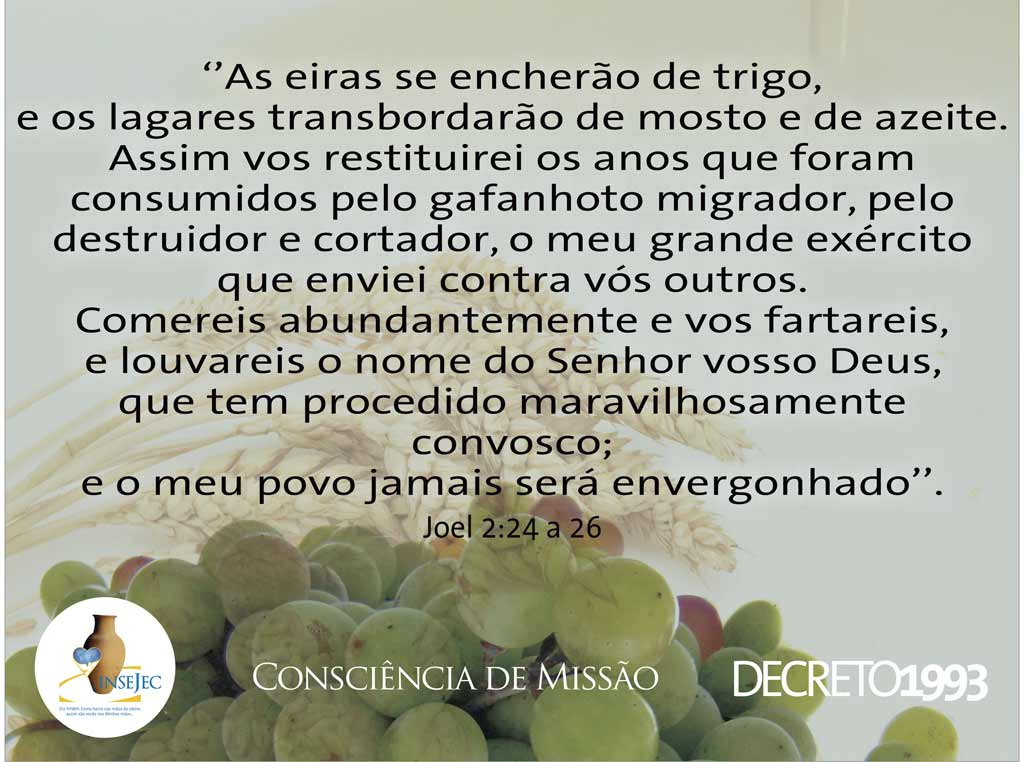
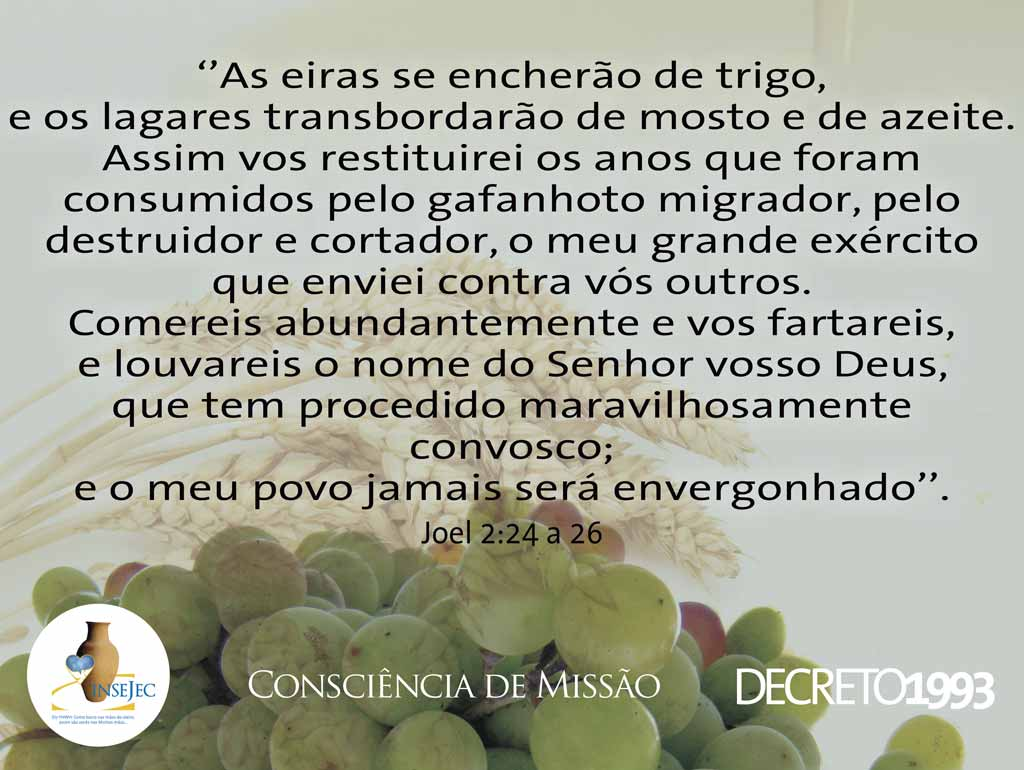
Feito página decretos, e criado galeria de imagens

diff --git a/igreja/decretos.html b/igreja/decretos.html
@@ -195,10 +195,29 @@
         <div class="gallery">
 
           <div class="gallery-item cursor"><img src="../assets/img/thumbnails/Imagem-1.jpg" class="hover-shadow" onclick="openModal();currentSlide(1)" /></div>
-          <div class="gallery-item cursor"><img src="../assets/img/thumbnails/Imagem-2.jpg" class="hover-shadow" /></div>
-          <div class="gallery-item cursor"><img src="../assets/img/thumbnails/Imagem-3.jpg" class="hover-shadow" /></div>
-          <div class="gallery-item cursor"><img src="../assets/img/thumbnails/Imagem-4.jpg" class="hover-shadow" /></div>
-          <div class="gallery-item cursor"><img src="../assets/img/thumbnails/Imagem-21.jpg" class="hover-shadow" /></div>
+          <div class="gallery-item cursor"><img src="../assets/img/thumbnails/Imagem-2.jpg" class="hover-shadow" onclick="openModal();currentSlide(2)" /></div>
+          <div class="gallery-item cursor"><img src="../assets/img/thumbnails/Imagem-3.jpg" class="hover-shadow" onclick="openModal();currentSlide(3)" /></div>
+          <div class="gallery-item cursor"><img src="../assets/img/thumbnails/Imagem-4.jpg" class="hover-shadow" onclick="openModal();currentSlide(4)" /></div>
+          <div class="gallery-item cursor"><img src="../assets/img/thumbnails/Imagem-5.jpg" class="hover-shadow" onclick="openModal();currentSlide(5)" /></div>
+          <div class="gallery-item cursor"><img src="../assets/img/thumbnails/Imagem-6.jpg" class="hover-shadow" onclick="openModal();currentSlide(6)" /></div>
+          <div class="gallery-item cursor"><img src="../assets/img/thumbnails/Imagem-7.jpg" class="hover-shadow" onclick="openModal();currentSlide(7)" /></div>
+          <div class="gallery-item cursor"><img src="../assets/img/thumbnails/Imagem-8.jpg" class="hover-shadow" onclick="openModal();currentSlide(8)" /></div>
+          <div class="gallery-item cursor"><img src="../assets/img/thumbnails/Imagem-9.jpg" class="hover-shadow" onclick="openModal();currentSlide(9)" /></div>
+          <div class="gallery-item cursor"><img src="../assets/img/thumbnails/Imagem-10.jpg" class="hover-shadow" onclick="openModal();currentSlide(10)" /></div>
+          <div class="gallery-item cursor"><img src="../assets/img/thumbnails/Imagem-11.jpg" class="hover-shadow" onclick="openModal();currentSlide(11)" /></div>
+          <div class="gallery-item cursor"><img src="../assets/img/thumbnails/Imagem-12.jpg" class="hover-shadow" onclick="openModal();currentSlide(12)" /></div>
+          <div class="gallery-item cursor"><img src="../assets/img/thumbnails/Imagem-13.jpg" class="hover-shadow" onclick="openModal();currentSlide(13)" /></div>
+          <div class="gallery-item cursor"><img src="../assets/img/thumbnails/Imagem-14.jpg" class="hover-shadow" onclick="openModal();currentSlide(14)" /></div>
+          <div class="gallery-item cursor"><img src="../assets/img/thumbnails/Imagem-15.jpg" class="hover-shadow" onclick="openModal();currentSlide(15)" /></div>
+          <div class="gallery-item cursor"><img src="../assets/img/thumbnails/Imagem-16.jpg" class="hover-shadow" onclick="openModal();currentSlide(16)" /></div>
+          <div class="gallery-item cursor"><img src="../assets/img/thumbnails/Imagem-17.jpg" class="hover-shadow" onclick="openModal();currentSlide(17)" /></div>
+          <div class="gallery-item cursor"><img src="../assets/img/thumbnails/Imagem-18.jpg" class="hover-shadow" onclick="openModal();currentSlide(18)" /></div>
+          <div class="gallery-item cursor"><img src="../assets/img/thumbnails/Imagem-19.jpg" class="hover-shadow" onclick="openModal();currentSlide(19)" /></div>
+          <div class="gallery-item cursor"><img src="../assets/img/thumbnails/Imagem-20.jpg" class="hover-shadow" onclick="openModal();currentSlide(20)" /></div>
+          <div class="gallery-item cursor"><img src="../assets/img/thumbnails/Imagem-21.jpg" class="hover-shadow" onclick="openModal();currentSlide(21)" /></div>
+          <div class="gallery-item cursor"><img src="../assets/img/thumbnails/Imagem-22.jpg" class="hover-shadow" onclick="openModal();currentSlide(22)" /></div>
+          <div class="gallery-item cursor"><img src="../assets/img/thumbnails/Imagem-23.jpg" class="hover-shadow" onclick="openModal();currentSlide(23)" /></div>
+          <div class="gallery-item cursor"><img src="../assets/img/thumbnails/Imagem-24.jpg" class="hover-shadow" onclick="openModal();currentSlide(24)" /></div>
 
 
         </div>
@@ -210,33 +229,159 @@
 
         <span class="close cursor" onclick="closeModal()">&times;</span>
 
+        <div class="baixo" onclick="closeModal()"></div>
+
         <div class="mySlides">
-          <div class="numbertext"> 1 / 25</div>
-          <img src="../assets/img/Imagem-1.jpg" style="width: 100%">
+          <div class="numbertext"> 1 / 24</div>
+          <img src="../assets/img/Imagem-1.jpg">
         </div>
 
         <div class="mySlides">
-          <div class="numbertext"> 2 / 25</div>
-          <img src="../assets/img/Imagem-2.jpg" style="width: 100%">
+          <div class="numbertext"> 2 / 24</div>
+          <img src="../assets/img/Imagem-2.jpg" >
         </div>
 
         <div class="mySlides">
-          <div class="numbertext"> 3 / 25</div>
-          <img src="../assets/img/Imagem-3.jpg" style="width: 100%">
+          <div class="numbertext"> 3 / 24</div>
+          <img src="../assets/img/Imagem-3.jpg" >
         </div>
 
         <div class="mySlides">
-          <div class="numbertext"> 4 / 25</div>
-          <img src="../assets/img/Imagem-4.jpg" style="width: 100%">
+          <div class="numbertext"> 4 / 24</div>
+          <img src="../assets/img/Imagem-4.jpg" >
         </div>
 
         <div class="mySlides">
-          <div class="numbertext"> 21 / 25</div>
-          <img src="../assets/img/Imagem-21.jpg" style="width: 100%">
+          <div class="numbertext"> 5 / 24</div>
+          <img src="../assets/img/Imagem-5.jpg" >
+        </div>
+
+        <div class="mySlides">
+          <div class="numbertext"> 6 / 24</div>
+          <img src="../assets/img/Imagem-6.jpg" >
+        </div>
+
+        <div class="mySlides">
+          <div class="numbertext"> 7 / 24</div>
+          <img src="../assets/img/Imagem-7.jpg" >
+        </div>
+
+        <div class="mySlides">
+          <div class="numbertext"> 8 / 24</div>
+          <img src="../assets/img/Imagem-8.jpg" >
+        </div>
+
+        <div class="mySlides">
+          <div class="numbertext"> 9 / 24</div>
+          <img src="../assets/img/Imagem-9.jpg" >
+        </div>
+
+        <div class="mySlides">
+          <div class="numbertext"> 10 / 24</div>
+          <img src="../assets/img/Imagem-10.jpg" >
+        </div>
+
+        <div class="mySlides">
+          <div class="numbertext"> 11 / 24</div>
+          <img src="../assets/img/Imagem-11.jpg" >
+        </div>
+
+        <div class="mySlides">
+          <div class="numbertext"> 12 / 24</div>
+          <img src="../assets/img/Imagem-12.jpg" >
+        </div>
+
+        <div class="mySlides">
+          <div class="numbertext"> 13 / 24</div>
+          <img src="../assets/img/Imagem-13.jpg" >
+        </div>
+
+        <div class="mySlides">
+          <div class="numbertext"> 14 / 24</div>
+          <img src="../assets/img/Imagem-14.jpg" >
+        </div>
+
+        <div class="mySlides">
+          <div class="numbertext"> 15 / 24</div>
+          <img src="../assets/img/Imagem-15.jpg" >
+        </div>
+
+        <div class="mySlides">
+          <div class="numbertext"> 16 / 24</div>
+          <img src="../assets/img/Imagem-16.jpg" >
+        </div>
+
+        <div class="mySlides">
+          <div class="numbertext"> 17 / 24</div>
+          <img src="../assets/img/Imagem-17.jpg" >
+        </div>
+
+        <div class="mySlides">
+          <div class="numbertext"> 18 / 24</div>
+          <img src="../assets/img/Imagem-18.jpg" >
+        </div>
+
+        <div class="mySlides">
+          <div class="numbertext"> 19 / 24</div>
+          <img src="../assets/img/Imagem-19.jpg" >
+        </div>
+
+        <div class="mySlides">
+          <div class="numbertext"> 20 / 24</div>
+          <img src="../assets/img/Imagem-20.jpg" >
+        </div>
+
+        <div class="mySlides">
+          <div class="numbertext"> 21 / 24</div>
+          <img src="../assets/img/Imagem-21.jpg" >
+        </div>
+
+        <div class="mySlides">
+          <div class="numbertext"> 22 / 24</div>
+          <img src="../assets/img/Imagem-22.jpg" >
+        </div>
+
+        <div class="mySlides">
+          <div class="numbertext"> 23 / 24</div>
+          <img src="../assets/img/Imagem-23.jpg" >
+        </div>
+
+        <div class="mySlides">
+          <div class="numbertext"> 24 / 24</div>
+          <img src="../assets/img/Imagem-24.jpg" >
         </div>
 
         <a class="prev" onclick="plusSlides(-1)">&#10094;</a>
         <a class="next" onclick="plusSlides(1)">&#10095;</a>
+
+        <div class="column">
+          <ol class="carousel-indicator">
+            <li class="demo cursor" onclick="currentSlide(1)" title="Decreto 1992"></li>
+            <li class="demo cursor" onclick="currentSlide(2)" title="Decreto 1993"></li>
+            <li class="demo cursor" onclick="currentSlide(3)" title="Decreto 1994"></li>
+            <li class="demo cursor" onclick="currentSlide(4)" title="Decreto 1995"></li>
+            <li class="demo cursor" onclick="currentSlide(5)" title="Decreto 1996"></li>
+            <li class="demo cursor" onclick="currentSlide(6)" title="Decreto 1997"></li>
+            <li class="demo cursor" onclick="currentSlide(7)" title="Decreto 1998"></li>
+            <li class="demo cursor" onclick="currentSlide(8)" title="Decreto 1999"></li>
+            <li class="demo cursor" onclick="currentSlide(9)" title="Decreto 2000"></li>
+            <li class="demo cursor" onclick="currentSlide(10)" title="Decreto 2001"></li>
+            <li class="demo cursor" onclick="currentSlide(11)" title="Decreto 2005"></li>
+            <li class="demo cursor" onclick="currentSlide(12)" title="Decreto 2007"></li>
+            <li class="demo cursor" onclick="currentSlide(13)" title="Decreto 2008"></li>
+            <li class="demo cursor" onclick="currentSlide(14)" title="Decreto 2009"></li>
+            <li class="demo cursor" onclick="currentSlide(15)" title="Decreto 2010"></li>
+            <li class="demo cursor" onclick="currentSlide(16)" title="Decreto 2011"></li>
+            <li class="demo cursor" onclick="currentSlide(17)" title="Decreto 2012"></li>
+            <li class="demo cursor" onclick="currentSlide(18)" title="Decreto 2013"></li>
+            <li class="demo cursor" onclick="currentSlide(19)" title="Decreto 2014"></li>
+            <li class="demo cursor" onclick="currentSlide(20)" title="Decreto 2015"></li>
+            <li class="demo cursor" onclick="currentSlide(21)" title="Decreto 2016"></li>
+            <li class="demo cursor" onclick="currentSlide(22)" title="Decreto 2017"></li>
+            <li class="demo cursor" onclick="currentSlide(23)" title="Decreto 2018"></li>
+            <li class="demo cursor" onclick="currentSlide(24)" title="Decreto 2019"></li>
+          </ol>
+        </div>
 
       </div>
 

diff --git a/assets/css/decretos.css b/assets/css/decretos.css
@@ -12,7 +12,7 @@
 
 body {
   background: rgba(221, 216, 217, 0.4);
-  background-image: url(/assets/img/FacesCom.jpg);
+  background-image: url(../img/FacesCom.jpg);
   background-size: 900px 1200px;
   background-attachment: fixed;
   background-blend-mode: screen;
@@ -82,16 +82,17 @@ body {
   cursor: pointer;
 }
 
-.hover-shadow{
+.hover-shadow {
   transition: 0.3s;
 }
 
 .hover-shadow:hover {
   box-shadow: 3px 5px 8px 5px rgba(0, 0, 0, 0.2), 0 6px 20px 0 rgba(0, 0, 0, 0.19);
+  opacity: 0.6;
 }
 
 /* The modal (background) */
-.modal{
+.modal {
   display: none;
   position: fixed;
   z-index: 11;
@@ -101,7 +102,7 @@ body {
   width: 100%;
   height: 100%;
   overflow: auto;
-  background-color: black;
+  background-color: rgba(0, 0, 0, 0.7);
 }
 
 /* modal content */
@@ -118,10 +119,11 @@ body {
 .close {
   color: white;
   position: absolute;
-  top: 10px;
-  right: 25px;
-  font-size: 35px;
+  top: 23px;
+  right: 45px;
+  font-size: 51px;
   font-weight: bold;
+  z-index: 10;
 }
 
 .close:hover,
@@ -133,6 +135,61 @@ body {
 
 .mySlides {
   display: none;
+  justify-content: center;
+}
+
+.mySlides img {
+  width: initial;
+  height: initial;
+  z-index: 10;
+}
+
+.demo {
+  opacity: 0.6;
+}
+
+.active,
+.demo:hover {
+  opacity: 1;
+  background-color: white;
+ border: 1px solid grey;
+}
+
+.column {
+  float: left;
+  width: 25%;
+}
+
+.carousel-indicator {
+  position: absolute;
+bottom: 10px;
+left: 50%;
+z-index: 15;
+width: 60%;
+margin-left: -30%;
+padding-left: 0;
+list-style: none;
+text-align: center;
+}
+
+.carousel-indicator li {
+  display: inline-block;
+width: 10px;
+height: 10px;
+margin: 1px;
+text-indent: -999px;
+border-radius: 10px;
+cursor: pointer;
+border: 1px solid grey;
+background-color: white;
+}
+
+.baixo {
+  width: 100%;
+  height: 100%;
+  position: absolute;
+  top: 0;
+  z-index: 9;
 }
 
 /* next & previous buttons */
@@ -146,11 +203,12 @@ body {
   margin-top: -50px;
   color: white;
   font-weight: bold;
-  font-size: 20px;
+  font-size: 30px;
   transition: 0.6s ease;
   border-radius: 0 3px 3px 0;
   user-select: none;
   -webkit-user-select: none;
+  z-index: 10;
 }
 
 /* position the "next button" to the right  */
@@ -162,7 +220,8 @@ body {
 /* on hover, add a black background color with a little bit see-through  */
 .prev:hover,
 .next:hover {
-  background-color: rgba(0, 0, 0, 0.8);
+  background-color: white;
+  color: black;
 }
 
 /* number text  */
@@ -173,10 +232,20 @@ body {
   position: absolute;
   top: 0;
 }
- 
+
 @media (max-width: 700px) {
   .gallery {
     grid-template: "1fr";
+  }
+
+  .modal {
+    z-index: 12;
+  }
+
+  .prev,
+  .next {
+    top: 240px;
+    margin-top: initial;
   }
 }
 

diff --git a/assets/css/main.css b/assets/css/main.css
@@ -19,7 +19,7 @@ html, body, div, span, object, iframe,h1, h2, h3, h4, h5, h6, p, blockquote, pre
 
 body {
   background: rgba(221, 216, 217, 0.90);
-  background-image: url(/assets/img/FacesComprimida-min-min.jpg);
+  background-image: url(/assets/img/FacesCom.jpg);
 
   background-size: 900px 1200px;
   background-attachment: fixed;

diff --git a/assets/js/gallery.js b/assets/js/gallery.js
@@ -35,7 +35,7 @@ function showSlides(n) {
         dots[i].className = dots[i].className.replace(" active", "");
     }
 
-    slides[slideIndex-1].style.display = "block";
+    slides[slideIndex-1].style.display = "flex";
     dots[slideIndex-1].className += " active";
     captionText.innerHTML = dots[slideIndex-1].alt;
 
